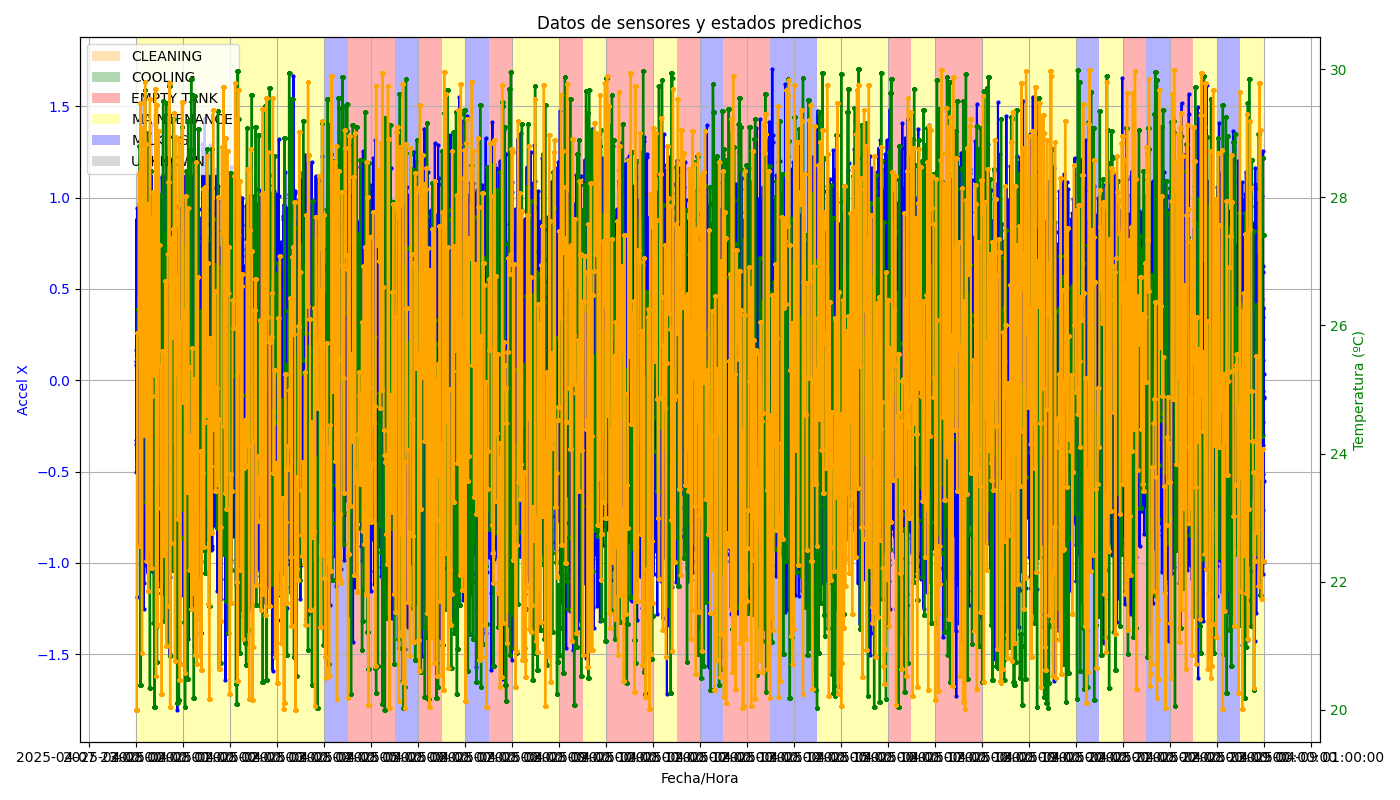
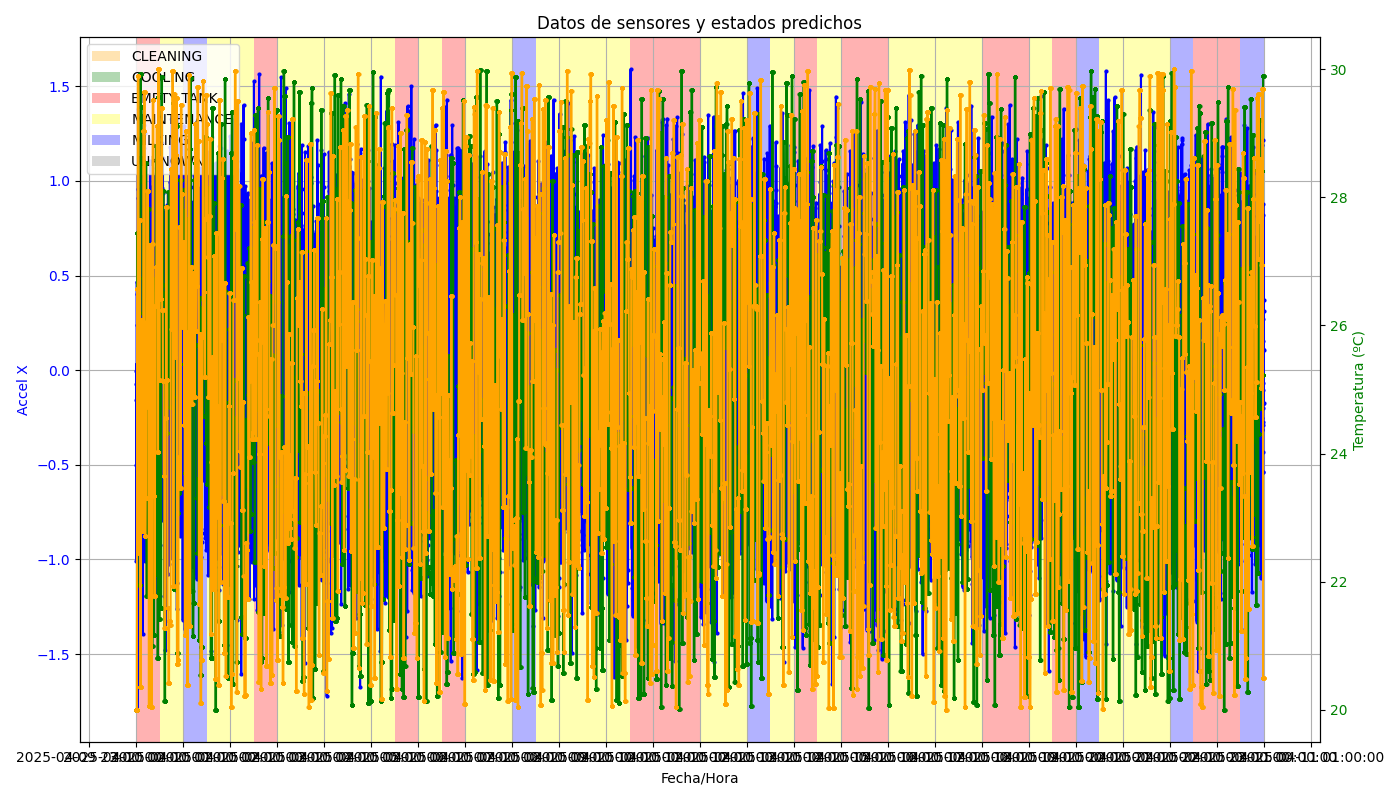
fix: initail temps for predict tank states

diff --git a/frontend/src/components/camera/CameraControlButtons.jsx b/frontend/src/components/camera/CameraControlButtons.jsx
@@ -1,41 +1,27 @@
-"use client"
-
-import { Maximize, Minimize, ArrowUpCircle, ArrowRightCircle, ArrowLeftCircle } from "lucide-react"
+import { Maximize, Minimize, Bird, MonitorUp, AlignLeft } from "lucide-react"
 import { useState } from "react"
 import { Button } from "@/components/ui/button"
 import { Tooltip, TooltipContent, TooltipProvider, TooltipTrigger } from "@/components/ui/tooltip"
 import useAppDataStore from "@/stores/useAppDataStore"
 
-const CameraControlButtons = ({ handleViewChange }) => {
-  const [isFullscreen, setIsFullscreen] = useState(false)
+const CameraControlButtons = ({ handleViewChange, toggleFullscreen, isFullscreen }) => {
+  const [currentView, setCurrentView] = useState("default")
 
-  const {mode, filters} = useAppDataStore((state) => state)
-  
-  const toggleFullscreen = () => {
-    if (!document.fullscreenElement) {
-      document.documentElement
-        .requestFullscreen()
-        .then(() => {
-          setIsFullscreen(true)
-        })
-        .catch((err) => {
-          console.error(`Error attempting to enable fullscreen: ${err.message}`)
-        })
+  const { mode, filters } = useAppDataStore((state) => state)
+
+  const toggleView = (view) => {
+    // Si la vista actual es la misma que se está solicitando, volver a la vista predeterminada
+    if (currentView === view) {
+      setCurrentView("default")
+      handleViewChange("default")
     } else {
-      if (document.exitFullscreen) {
-        document
-          .exitFullscreen()
-          .then(() => {
-            setIsFullscreen(false)
-          })
-          .catch((err) => {
-            console.error(`Error attempting to exit fullscreen: ${err.message}`)
-          })
-      }
+      // De lo contrario, cambiar a la vista solicitada
+      setCurrentView(view)
+      handleViewChange(view)
     }
   }
 
-  if(mode === "historical" && filters.dateRange === null) {
+  if (mode === "historical" && filters.dateRange === null) {
     return null
   }
 
@@ -46,12 +32,12 @@ const CameraControlButtons = ({ handleViewChange }) => {
           <Tooltip>
             <TooltipTrigger asChild>
               <Button
-                variant="outline"
+                variant={currentView === "lateral" ? "default" : "outline"}
                 size="icon"
-                className="h-8 w-8 bg-white hover:bg-gray-100"
-                onClick={() => handleViewChange("lateral")}
+                className={`h-8 w-8 ${currentView === "lateral" ? "bg-gray-200" : "bg-white hover:bg-gray-100"}`}
+                onClick={() => toggleView("lateral")}
               >
-                <ArrowLeftCircle className="h-4 w-4" />
+                <AlignLeft className="h-4 w-4" />
                 <span className="sr-only">Vista Lateral</span>
               </Button>
             </TooltipTrigger>
@@ -63,12 +49,12 @@ const CameraControlButtons = ({ handleViewChange }) => {
           <Tooltip>
             <TooltipTrigger asChild>
               <Button
-                variant="outline"
+                variant={currentView === "front" ? "default" : "outline"}
                 size="icon"
-                className="h-8 w-8 bg-white hover:bg-gray-100"
-                onClick={() => handleViewChange("front")}
+                className={`h-8 w-8 ${currentView === "front" ? "bg-gray-200" : "bg-white hover:bg-gray-100"}`}
+                onClick={() => toggleView("front")}
               >
-                <ArrowRightCircle className="h-4 w-4" />
+                <MonitorUp className="h-4 w-4" />
                 <span className="sr-only">Vista Frontal</span>
               </Button>
             </TooltipTrigger>
@@ -80,12 +66,12 @@ const CameraControlButtons = ({ handleViewChange }) => {
           <Tooltip>
             <TooltipTrigger asChild>
               <Button
-                variant="outline"
+                variant={currentView === "top" ? "default" : "outline"}
                 size="icon"
-                className="h-8 w-8 bg-white hover:bg-gray-100"
-                onClick={() => handleViewChange("top")}
+                className={`h-8 w-8 ${currentView === "top" ? "bg-gray-200" : "bg-white hover:bg-gray-100"}`}
+                onClick={() => toggleView("top")}
               >
-                <ArrowUpCircle className="h-4 w-4" />
+                <Bird className="h-4 w-4" />
                 <span className="sr-only">Vista Zenital</span>
               </Button>
             </TooltipTrigger>

diff --git a/frontend/src/components/TankModel.jsx b/frontend/src/components/TankModel.jsx
@@ -1,4 +1,6 @@
-import { useEffect, useState } from "react"
+"use client"
+
+import { useEffect, useState, useRef } from "react"
 import { Canvas } from "@react-three/fiber"
 import useTankStore from "@/stores/useTankStore"
 import SelectedSensorData from "./sensorData/SelectedSensorData"
@@ -12,9 +14,20 @@ import { Loader2 } from "lucide-react"
 import useDataStore from "@/stores/useDataStore"
 import CameraControlButtons from "./camera/CameraControlButtons"
 
-const TankModel = ({ mode, filters, selectedTime, handleTimeSelected, selectedHistoricalData, historicalData, error, fetchHistoricalData }) => {
+const TankModel = ({
+  mode,
+  filters,
+  selectedTime,
+  handleTimeSelected,
+  selectedHistoricalData,
+  historicalData,
+  error,
+  fetchHistoricalData,
+}) => {
   const { selectedTank } = useTankStore((state) => state)
   const [currentView, setCurrentView] = useState("default")
+  const [isFullscreen, setIsFullscreen] = useState(false)
+  const tankContainerRef = useRef(null)
 
   // Get real-time data directly in this component
   const {
@@ -40,7 +53,6 @@ const TankModel = ({ mode, filters, selectedTime, handleTimeSelected, selectedHi
     gyroscopeData,
   }
 
-
   // Log when selectedTime changes
   useEffect(() => {
     if (selectedTime) {
@@ -62,12 +74,15 @@ const TankModel = ({ mode, filters, selectedTime, handleTimeSelected, selectedHi
     setCurrentView(view) // Actualizar la vista desde los botones
   }
 
+  const toggleFullscreen = () => {
+    setIsFullscreen(!isFullscreen)
+  }
+
   // Use the appropriate data source based on mode
   const data = mode === "realtime" ? realTimeData : selectedHistoricalData || historicalData
   console.log("TankModel: Data being used", data)
 
   const renderTankModel = () => {
-
     // Case 1: Historical mode but no date range selected
     if (mode === "historical" && !filters.dateRange) {
       return (
@@ -173,19 +188,24 @@ const TankModel = ({ mode, filters, selectedTime, handleTimeSelected, selectedHi
         <directionalLight position={[-10, -10, -10]} intensity={0.5} />
         <Suspense fallback={null}>
           <group>{selectTankDisplayType(selectedTank?.display, selectedTank?.blades)}</group>
-          <CameraSettings view={currentView} tankDisplay={selectedTank?.display}/>
+          <CameraSettings view={currentView} tankDisplay={selectedTank?.display} />
         </Suspense>
       </Canvas>
     )
   }
 
   return (
-    <div className="w-full h-full bg-white relative">
+    <div
+      ref={tankContainerRef}
+      className={`bg-white relative transition-all duration-300 ${
+        isFullscreen ? "fixed top-0 left-0 w-screen h-screen z-50" : "w-full h-full"
+      }`}
+    >
       {/* Only show sensor data overlay when in realtime mode or when historical data is loaded */}
       {(mode === "realtime" || (historicalData && historicalData !== "loading" && !error)) && (
         <>
           <div className="absolute top-4 left-4 z-10">
-            <SelectedSensorData             
+            <SelectedSensorData
               encoderData={data?.encoderData}
               milkQuantityData={data?.milkQuantityData}
               switchStatus={data?.switchStatus}
@@ -199,7 +219,11 @@ const TankModel = ({ mode, filters, selectedTime, handleTimeSelected, selectedHi
         </>
       )}
       {renderTankModel()}
-      <CameraControlButtons handleViewChange={handleViewChange} />
+      <CameraControlButtons
+        handleViewChange={handleViewChange}
+        toggleFullscreen={toggleFullscreen}
+        isFullscreen={isFullscreen}
+      />
     </div>
   )
 }

diff --git a/backend/controllers/PredictTankState.js b/backend/controllers/PredictTankState.js
@@ -36,7 +36,7 @@ const validateRequest = (req, res, next) => {
 
 function processData(rawData) {
   // Valor estándar inicial para las temperaturas
-  let lastTemps = { surface: 20, overSurface: 20 };
+  let lastTemps = { surface: 6, overSurface: 6 };
   const processed = [];
 
   // Ordenar los datos por DateTime
